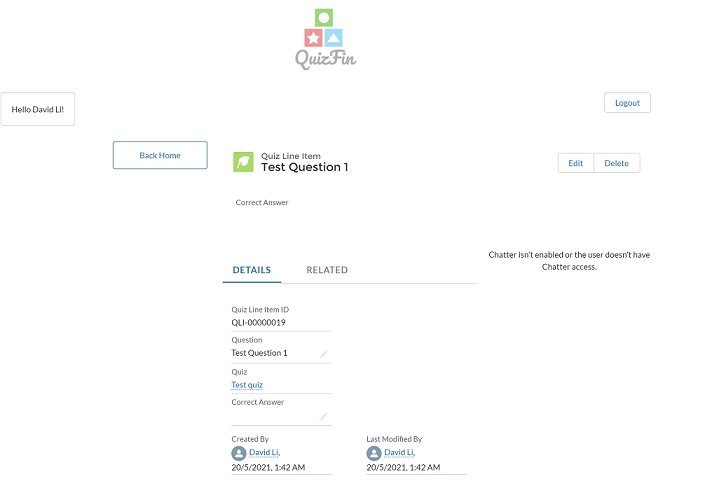
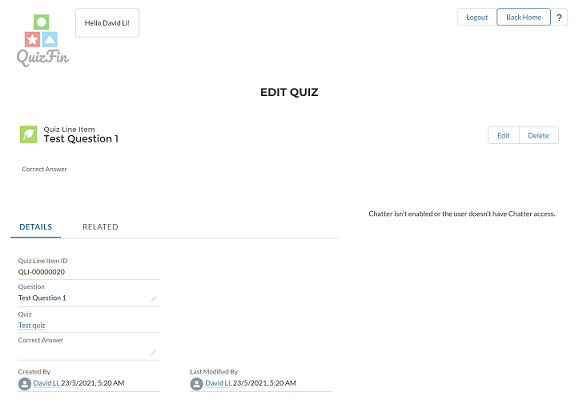
refine look and feel of site pages

diff --git a/force-app/main/default/lwc/quizDecor/quizDecor.html b/force-app/main/default/lwc/quizDecor/quizDecor.html
@@ -2,7 +2,7 @@
     <div class="slds-float_right">
         <lightning-button-icon icon-name="utility:help" onclick={navigateToHelpPage}>Help</lightning-button-icon>
     </div>
-    <div class="slds-m-around_medium slds-align_absolute-center">
+    <div class="slds-float_left">
         <img src={quizFinLogo}>
     </div>
 </template>

diff --git a/force-app/main/default/lwc/quizHelp/quizHelp.html b/force-app/main/default/lwc/quizHelp/quizHelp.html
@@ -73,6 +73,7 @@
             </li>
             <li class="slds-item">
                 Once you created a new <strong>Quiz Line Items</strong>, click into it
+                <br>
                 <img src={quizHelpImg9}>
                 <br>
                 Again, under <strong>Related</strong> tab, you can create your answers

diff --git a/force-app/main/default/lwc/quizMenu/quizMenu.html b/force-app/main/default/lwc/quizMenu/quizMenu.html
@@ -1,6 +1,6 @@
 <template>
     <div class="slds-float_right">
-        <button class="slds-button slds-button_outline-brand slds-button_stretch btn-lg" 
+        <button class="slds-button slds-button_outline-brand slds-button_stretch" 
                 onclick={navigateToHomePage}>
                 Back Home
         </button>
